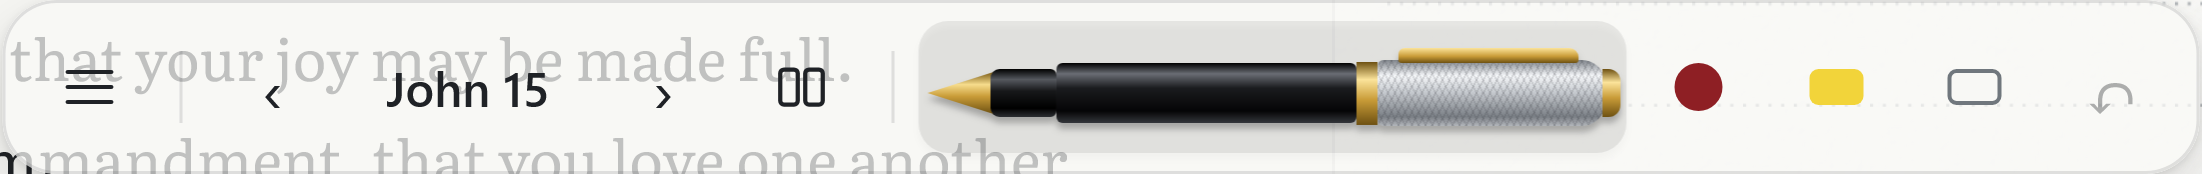
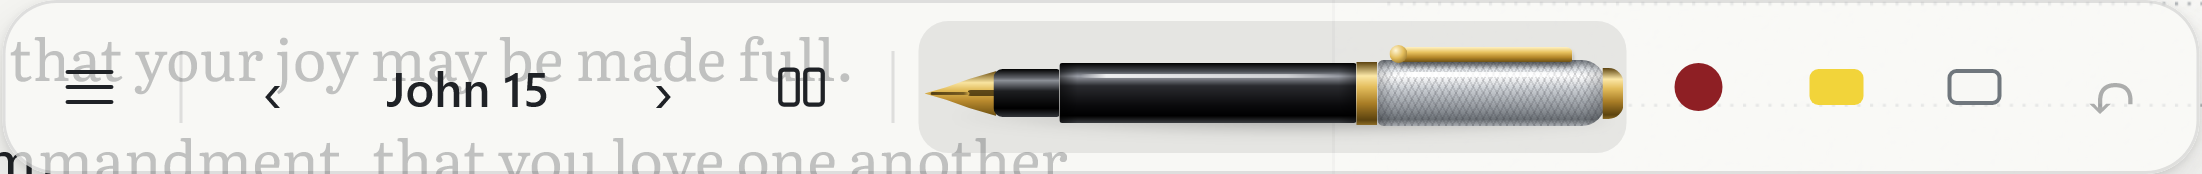
Make the pens more lifelike: gloss, contact shadow, shaded joins, slots and ridges
Asked for by the user: "refine it a little and make it more lifelike".
- A sharp specular streak along each lit part, over the soft cylinder
  shading; a thin rim of reflected light along the undersides.
- A soft contact shadow beneath the pen, where it rests, in place of a
  drop-shadow outline.
- Shadow where parts meet and at rounded ends: they read as separate
  pieces.
- BIC: a brass ball point; a cone that curves into the barrel; each
  slider rides in a dark slot it uncovers when clicked forward, with grip
  ridges on its tab; harder chrome reflections on the clip; the end loop
  lit as a ring.
- Fountain pen: the nib's slit and breather hole, a highlight down the
  lacquer, the clip standing off the cap with its ball end.

Evidence: notebook spec 23 passed, 5 skipped (phone). Close-ups at 4x in
WebKit added to docs/screenshots.

Changed region(s): [[0.4015, 0.2586, 0.7411, 0.7759], [0.6176, 0.4885, 0.6485, 0.546]]

diff --git a/src/index.css b/src/index.css
@@ -474,70 +474,160 @@ button:disabled { opacity: 0.35; cursor: default; }
 .nib-highlighter { width: 18px; height: 12px; background: #f2d43a; border-radius: 3px; }
 .nib-eraser { width: 18px; height: 12px; background: var(--slip); border: 1.5px solid var(--muted); border-radius: 3px; }
 /*
- * The paper style's own pen, drawn in the toolbar (PenArt.tsx). Every part is a cylinder
- * lit from above: a gradient from shadow, to a highlight a quarter of the way down, to
- * shadow, with a little light reflected back along the underside. The drop shadow sets
- * it on the glass.
+ * The paper style's own pen, drawn in the toolbar (PenArt.tsx), as near to the real
+ * thing as shaded shapes allow. Light comes from above and a little in front:
+ *   - each part is a cylinder: dark edge, bright band a quarter down, a sharp specular
+ *     streak along it (the ::after), darker below, a thin rim of light reflected back
+ *     off the surface underneath;
+ *   - where parts meet, a little shadow (they are separate pieces);
+ *   - the pen rests on something: a soft contact shadow under it, not an outline.
  */
-.pen-art { position: relative; display: inline-block; width: 236px; height: 44px; flex: none; filter: drop-shadow(0 2px 1.5px rgba(0, 0, 0, 0.28)); }
+.pen-art { position: relative; display: inline-block; width: 236px; height: 44px; flex: none; }
 .pen-art > span { position: absolute; display: block; }
-/* The multi-colour ballpoint (Darrell's blue three-colour BIC): brass point, blue cone and
-   barrel, white body, chrome clip. */
-.bic-point { left: 2px; top: 22px; width: 7px; height: 4px; border-radius: 2px 0 0 2px;
-  background: linear-gradient(to bottom, #6b4e12, #f1d27b 35%, #b48a2c 70%, #5c430f); }
-.bic-cone { left: 8px; top: 16px; width: 16px; height: 16px; clip-path: polygon(0 34%, 100% 0, 100% 100%, 0 66%);
-  background: linear-gradient(to bottom, #1d5694 0%, #7bbcf0 24%, #4a90d9 48%, #23609f 82%, #4f86bd 100%); }
-.bic-barrel { left: 23px; top: 15px; width: 94px; height: 18px; border-radius: 2px;
-  background: linear-gradient(to bottom, #1f5c9e 0%, #8cc6f3 22%, #4d94dc 46%, #2b6aab 80%, #5b90c6 100%); }
-.bic-band { left: 117px; top: 14.5px; width: 3px; height: 19px;
-  background: linear-gradient(to bottom, #000, #4a4c50 25%, #111 60%, #2b2d30); }
-.bic-body { left: 120px; top: 14px; width: 100px; height: 20px; border-radius: 3px 9px 9px 3px;
-  background: linear-gradient(to bottom, #b9bdc2 0%, #ffffff 24%, #f2f3f4 48%, #c7cbd0 84%, #e4e6e8 100%); }
-.bic-clip { left: 126px; top: 28px; width: 72px; height: 4px; border-radius: 1px 3px 3px 1px;
-  background: linear-gradient(to bottom, #7d8288, #f7f9fb 40%, #a3a9af 75%, #6c7177); }
-.bic-loop { left: 217px; top: 16px; width: 15px; height: 15px; border-radius: 50%;
-  border: 3.5px solid transparent; box-sizing: border-box;
-  background: linear-gradient(#0000, #0000) padding-box, linear-gradient(to bottom, #c3c7cc, #fff 30%, #d5d8dc 70%, #a9aeb4) border-box; }
-/* Each slider: a coloured tab in its slot on the body; a hit area the toolbar's height. */
-.bic-slider { position: absolute; top: 0; width: 24px; height: 44px; padding: 0; border: 0; background: none; cursor: pointer; }
+.pen-art > span::after { content: ''; position: absolute; pointer-events: none; }
+.pen-shadow {
+  left: 10px; right: 6px; top: 27px; height: 11px; border-radius: 50%;
+  background: radial-gradient(ellipse at 55% 40%, rgba(0, 0, 0, 0.34), rgba(0, 0, 0, 0.12) 45%, transparent 72%);
+  filter: blur(2.2px);
+}
+
+/* Darrell's blue three-colour BIC: brass ball point, blue cone and barrel, a black band,
+   white body with a chrome clip, sliders in their slots, and the white end loop. */
+.bic-point {
+  left: 1px; top: 21.5px; width: 9px; height: 5px; border-radius: 3px 0 0 3px;
+  background:
+    radial-gradient(circle at 25% 35%, #fff6d0 0, transparent 2px),
+    linear-gradient(to bottom, #5a3f0b, #f4d98a 32%, #c69a39 58%, #6b4d10 88%, #93712a);
+}
+/* A cone that curves into the barrel (more points than a straight taper). */
+.bic-cone {
+  left: 9px; top: 15.5px; width: 16px; height: 17px;
+  clip-path: polygon(0 36%, 22% 28%, 48% 16%, 75% 6%, 100% 0, 100% 100%, 75% 94%, 48% 84%, 22% 72%, 0 64%);
+  background:
+    linear-gradient(to right, rgba(0, 0, 0, 0.18), transparent 60%),
+    linear-gradient(to bottom, #164a86 0%, #6eb3ec 22%, #9fd1f7 30%, #4a90d9 52%, #215c9c 84%, #4f86bd 100%);
+}
+.bic-barrel {
+  left: 24px; top: 15px; width: 93px; height: 18px; border-radius: 1px 2px 2px 1px;
+  background:
+    linear-gradient(to right, rgba(0, 0, 0, 0.1), transparent 8%, transparent 92%, rgba(0, 0, 0, 0.18)),
+    linear-gradient(to bottom, #174f8f 0%, #5ea6e6 16%, #a6d6f8 26%, #5b9fe0 40%, #3c7fc6 62%, #245e9e 86%, #4c84bf 100%);
+}
+.bic-barrel::after { left: 6px; right: 5px; top: 3.5px; height: 1.6px; border-radius: 2px;
+  background: linear-gradient(to right, transparent, rgba(255, 255, 255, 0.95) 12%, rgba(255, 255, 255, 0.7) 75%, transparent); }
+.bic-band {
+  left: 117px; top: 14.5px; width: 3.5px; height: 19px; border-radius: 1px;
+  background: linear-gradient(to bottom, #000, #55585d 22%, #1a1b1d 50%, #000 85%, #2e3034);
+}
+.bic-body {
+  left: 120.5px; top: 14px; width: 99px; height: 20px; border-radius: 2px 10px 10px 2px;
+  background:
+    linear-gradient(to right, rgba(0, 0, 0, 0.22), transparent 6%, transparent 88%, rgba(0, 0, 0, 0.14)),
+    linear-gradient(to bottom, #a9aeb4 0%, #eef0f2 14%, #ffffff 26%, #f6f7f8 44%, #dfe2e5 70%, #b9bec4 90%, #d8dbde 100%);
+}
+.bic-body::after { left: 5px; right: 9px; top: 4px; height: 1.6px; border-radius: 2px;
+  background: linear-gradient(to right, transparent, rgba(255, 255, 255, 1) 15%, rgba(255, 255, 255, 0.8) 80%, transparent); }
+/* The chrome clip, along the near side: hard, bright reflections, a shadow on the body. */
+.bic-clip {
+  left: 128px; top: 27.5px; width: 74px; height: 4.5px; border-radius: 1px 3px 3px 1px;
+  box-shadow: 0 1px 1.5px rgba(0, 0, 0, 0.35);
+  background: linear-gradient(to bottom, #5f656c 0%, #ffffff 22%, #c9ced3 42%, #7c838a 62%, #e9edf0 82%, #8e959c 100%);
+}
+/* The loop at the end: a ring, lit like a torus. */
+.bic-loop {
+  left: 216px; top: 15.5px; width: 16px; height: 16px; border-radius: 50%; box-sizing: border-box;
+  border: 3.5px solid transparent;
+  background:
+    linear-gradient(#0000, #0000) padding-box,
+    radial-gradient(circle at 40% 30%, #ffffff 0, #f1f2f4 35%, #c5c9ce 70%, #9aa0a6 100%) border-box;
+  box-shadow: inset 0 1px 1px rgba(0, 0, 0, 0.25);
+}
+/* Each slider: its slot cut into the body, and the coloured tab that rides in it. A
+   hit area the toolbar's height, wider than the tab, for a finger. */
+.bic-slider { position: absolute; top: 0; width: 26px; height: 44px; padding: 0; border: 0; background: none; cursor: pointer; }
 .bic-slider:focus-visible { outline: 2px solid var(--accent); outline-offset: -2px; border-radius: 8px; }
+.bic-slot {
+  position: absolute; left: -5px; top: 12.5px; width: 26px; height: 3.5px; border-radius: 2px;
+  background: linear-gradient(to bottom, #3a3d41, #6d7177);
+  box-shadow: inset 0 1px 1px rgba(0, 0, 0, 0.6), 0 0.5px 0 rgba(255, 255, 255, 0.7);
+}
 .bic-tab {
-  position: absolute; left: 5px; top: 8px; width: 14px; height: 9px; border-radius: 3px 3px 1px 1px;
-  box-shadow: inset 0 1px 0 rgba(255, 255, 255, 0.45), 0 1px 1px rgba(0, 0, 0, 0.35);
+  position: absolute; left: 6px; top: 6.5px; width: 14px; height: 9.5px; border-radius: 3.5px 3.5px 1px 1px;
+  box-shadow: inset 0 1px 0 rgba(255, 255, 255, 0.55), inset 0 -1px 0 rgba(0, 0, 0, 0.25), 0 1.5px 1.5px rgba(0, 0, 0, 0.4);
   transition: transform 0.16s cubic-bezier(0.2, 0.8, 0.2, 1);
 }
-.bic-pen .bic-tab { background: linear-gradient(to bottom, #6f8fe0, #1d3f9b 55%, #102463); }
-.bic-black .bic-tab { background: linear-gradient(to bottom, #6b6e73, #1b1c1e 55%, #000); }
-.bic-red .bic-tab { background: linear-gradient(to bottom, #f07a7e, #c0272d 55%, #7d1216); }
-.bic-green .bic-tab { background: linear-gradient(to bottom, #6fcf8e, #1d7a3c 55%, #0c4720); }
-/* Clicked down: toward the point and into the body, as the real pen's slider goes. */
-.bic-slider[aria-pressed='true'] .bic-tab { transform: translate(-9px, 4px); }
+/* Grip ridges across the tab, as the real sliders have. */
+.bic-tab::after {
+  content: ''; position: absolute; inset: 2px 3px 3px; border-radius: 1px;
+  background: repeating-linear-gradient(to right, rgba(255, 255, 255, 0.28) 0 1px, rgba(0, 0, 0, 0.18) 1px 2px, transparent 2px 3px);
+}
+.bic-pen .bic-tab { background: linear-gradient(to bottom, #8aa6ec, #2a4fb0 38%, #1d3f9b 60%, #0f2463); }
+.bic-black .bic-tab { background: linear-gradient(to bottom, #8a8d92, #2c2d30 38%, #1b1c1e 60%, #000); }
+.bic-red .bic-tab { background: linear-gradient(to bottom, #f6a0a3, #d8383e 38%, #c0272d 60%, #7d1216); }
+.bic-green .bic-tab { background: linear-gradient(to bottom, #93ddaa, #279249 38%, #1d7a3c 60%, #0c4720); }
+/* Clicked down: toward the point and into its slot, as the real pen's slider goes. */
+.bic-slider[aria-pressed='true'] .bic-tab { transform: translate(-9px, 3.5px); }
 .bic-slider:hover .bic-tab { transform: translateY(1px); }
-.bic-slider[aria-pressed='true']:hover .bic-tab { transform: translate(-9px, 4px); }
+.bic-slider[aria-pressed='true']:hover .bic-tab { transform: translate(-9px, 3.5px); }
 
-/* The fountain pen: gold nib, black section and lacquered barrel, gold ring, an engraved
-   silver cap with a gold clip and finial. */
+/* The fountain pen: gold nib with its slit and breather hole, black section and
+   lacquered barrel, gold ring, engraved silver cap with a gold clip and finial. */
 .fountain { padding: 0; border: 0; background: none; cursor: pointer; border-radius: 10px; }
 .fountain:focus-visible { outline: 2px solid var(--accent); outline-offset: 0; }
 .fountain[aria-pressed='true'] { background: color-mix(in srgb, var(--slip-ink) 9%, transparent); }
-.fp-nib { left: 3px; top: 17px; width: 22px; height: 14px; clip-path: polygon(0 50%, 100% 0, 100% 100%);
-  background: linear-gradient(to bottom, #7a5a14, #f6dc8c 30%, #c99c38 58%, #6e5112); }
-.fp-section { left: 24px; top: 16px; width: 22px; height: 16px; border-radius: 3px 2px 2px 3px;
-  background: linear-gradient(to bottom, #000, #55585e 22%, #17181a 46%, #000 82%, #2c2e32); }
-.fp-barrel { left: 46px; top: 14px; width: 100px; height: 20px; border-radius: 2px;
-  background: linear-gradient(to bottom, #000 0%, #6a6d74 18%, #1a1b1e 42%, #050506 80%, #34363b 100%); }
-.fp-ring { left: 146px; top: 13.5px; width: 7px; height: 21px;
-  background: linear-gradient(to bottom, #6e5112, #fbe39a 28%, #c99c38 60%, #6e5112); }
-.fp-cap { left: 153px; top: 13px; width: 76px; height: 22px; border-radius: 2px 8px 8px 2px;
+.fp-nib {
+  left: 2px; top: 16.5px; width: 24px; height: 15px;
+  clip-path: polygon(0 50%, 30% 36%, 62% 18%, 100% 0, 100% 100%, 62% 82%, 30% 64%);
+  background: linear-gradient(to bottom, #6a4c0f 0%, #f9e4a0 26%, #e0b955 44%, #b98a2e 66%, #6e5112 100%);
+}
+/* The slit, from the tip to the breather hole. */
+.fp-nib::after {
+  left: 2px; top: 7px; width: 13px; height: 1px;
+  background: linear-gradient(to right, rgba(40, 25, 0, 0.75), rgba(40, 25, 0, 0.55) 85%, transparent);
+  box-shadow: 13px 0 0 0.6px rgba(40, 25, 0, 0.7);
+  border-radius: 1px;
+}
+.fp-section {
+  left: 25px; top: 16px; width: 22px; height: 16px; border-radius: 3px 1px 1px 3px;
+  background: linear-gradient(to bottom, #000, #5d6066 18%, #8b8f96 24%, #1d1e21 46%, #000 82%, #33353a);
+}
+.fp-barrel {
+  left: 47px; top: 14px; width: 99px; height: 20px; border-radius: 1px;
+  background:
+    linear-gradient(to right, rgba(0, 0, 0, 0.5), transparent 6%, transparent 94%, rgba(0, 0, 0, 0.4)),
+    linear-gradient(to bottom, #000 0%, #4a4d53 14%, #9a9ea6 22%, #2a2b2f 38%, #0b0b0d 70%, #000 88%, #3a3c41 100%);
+}
+.fp-barrel::after { left: 7px; right: 6px; top: 3.6px; height: 1.4px; border-radius: 2px;
+  background: linear-gradient(to right, transparent, rgba(255, 255, 255, 0.85) 10%, rgba(255, 255, 255, 0.55) 80%, transparent); }
+.fp-ring {
+  left: 146px; top: 13.5px; width: 7px; height: 21px;
+  background: linear-gradient(to bottom, #5c430f, #fbe7a6 22%, #e3bd5c 40%, #a87d26 66%, #5c430f 92%, #8a6a24);
+}
+.fp-cap {
+  left: 153px; top: 13px; width: 76px; height: 22px; border-radius: 2px 8px 8px 2px;
   background:
     /* A fine cross-hatch, as engraving is cut; one direction alone read as stripes. */
     repeating-linear-gradient(62deg, rgba(40, 44, 50, 0.12) 0 0.6px, transparent 0.6px 2px),
     repeating-linear-gradient(118deg, rgba(40, 44, 50, 0.14) 0 0.6px, transparent 0.6px 2px),
-    linear-gradient(to bottom, #7f848a 0%, #f5f7f9 24%, #c4c8cd 50%, #7a7f85 86%, #b2b6bb 100%); }
-.fp-clip { left: 160px; top: 9px; width: 60px; height: 5px; border-radius: 2px 3px 1px 1px;
-  background: linear-gradient(to bottom, #fbe39a, #c99c38 55%, #6e5112); }
-.fp-finial { left: 228px; top: 16px; width: 6px; height: 16px; border-radius: 0 4px 4px 0;
-  background: linear-gradient(to bottom, #6e5112, #fbe39a 28%, #c99c38 60%, #6e5112); }
+    linear-gradient(to right, rgba(0, 0, 0, 0.18), transparent 7%, transparent 90%, rgba(0, 0, 0, 0.2)),
+    linear-gradient(to bottom, #6f747a 0%, #dfe3e7 14%, #ffffff 24%, #c9cdd2 44%, #8b9096 76%, #6c7176 90%, #a9adb2 100%);
+}
+.fp-cap::after { left: 4px; right: 8px; top: 4px; height: 1.6px; border-radius: 2px;
+  background: linear-gradient(to right, transparent, rgba(255, 255, 255, 0.95) 12%, rgba(255, 255, 255, 0.7) 80%, transparent); }
+/* The clip stands off the cap, with its own shadow and a ball at the end. */
+.fp-clip {
+  left: 160px; top: 8.5px; width: 58px; height: 5px; border-radius: 3px 2px 1px 1px;
+  box-shadow: 0 1.5px 1.5px rgba(0, 0, 0, 0.35);
+  background: linear-gradient(to bottom, #fff2c4, #e8c25f 35%, #b38629 70%, #6e5112);
+}
+.fp-clip::after {
+  left: -3px; top: -0.5px; width: 6px; height: 6px; border-radius: 50%;
+  background: radial-gradient(circle at 35% 30%, #fff6d6, #e3bd5c 45%, #8a6a24 90%);
+}
+.fp-finial {
+  left: 228px; top: 15.5px; width: 7px; height: 17px; border-radius: 0 5px 5px 0;
+  background: linear-gradient(to bottom, #5c430f, #fbe7a6 22%, #e3bd5c 40%, #a87d26 66%, #5c430f 92%, #8a6a24);
+}
 @media (prefers-reduced-motion: reduce) { .bic-tab { transition: none; } }
 
 /* An Apple Pencil always writes and a finger never does, so a touch device has no

diff --git a/src/views/PenArt.tsx b/src/views/PenArt.tsx
@@ -15,9 +15,10 @@ const COUNT = ['', 'One', 'Two', 'Three', 'Four'];
 export function MultiColourPen({ colours, choice, choose }: { colours: Tool[]; choice: string; choose: (t: Tool) => void }) {
   // The sliders sit across the white body, evenly spaced however many there are.
   const gap = colours.length > 3 ? 24 : 28;
-  const start = 120 + (100 - 14 - gap * (colours.length - 1)) / 2 - 5;
+  const start = 121 + (99 - 14 - gap * (colours.length - 1)) / 2 - 6;
   return (
     <span className="pen-art bic" role="group" aria-label={`${COUNT[colours.length]}-colour pen`}>
+      <span className="pen-shadow" aria-hidden="true" />
       <span className="bic-point" aria-hidden="true" />
       <span className="bic-cone" aria-hidden="true" />
       <span className="bic-barrel" aria-hidden="true" />
@@ -36,7 +37,8 @@ export function MultiColourPen({ colours, choice, choose }: { colours: Tool[]; c
           title={LABEL[tool]}
           onClick={() => choose(tool)}
         >
-          {/* Clicked down: the slider moves toward the point, as the real one does. */}
+          {/* Clicked down: the slider moves toward the point, uncovering its slot. */}
+          <span className="bic-slot" aria-hidden="true" />
           <span className="bic-tab" aria-hidden="true" />
         </button>
       ))}
@@ -47,6 +49,7 @@ export function MultiColourPen({ colours, choice, choose }: { colours: Tool[]; c
 export function FountainPen({ pressed, choose }: { pressed: boolean; choose: () => void }) {
   return (
     <button type="button" className="pen-art fountain" aria-pressed={pressed} aria-label="Pen" title="Pen" onClick={choose}>
+      <span className="pen-shadow" aria-hidden="true" />
       <span className="fp-nib" aria-hidden="true" />
       <span className="fp-section" aria-hidden="true" />
       <span className="fp-barrel" aria-hidden="true" />
